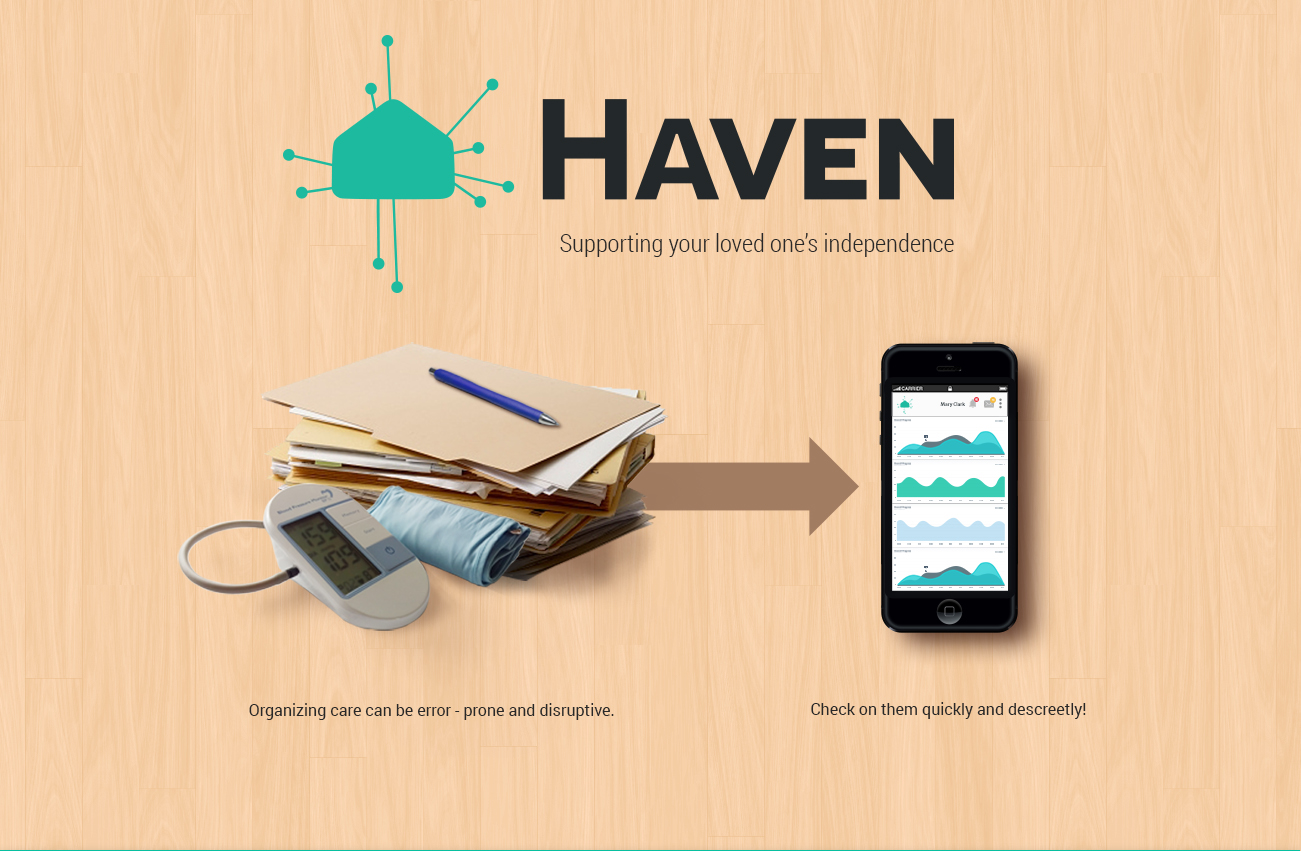
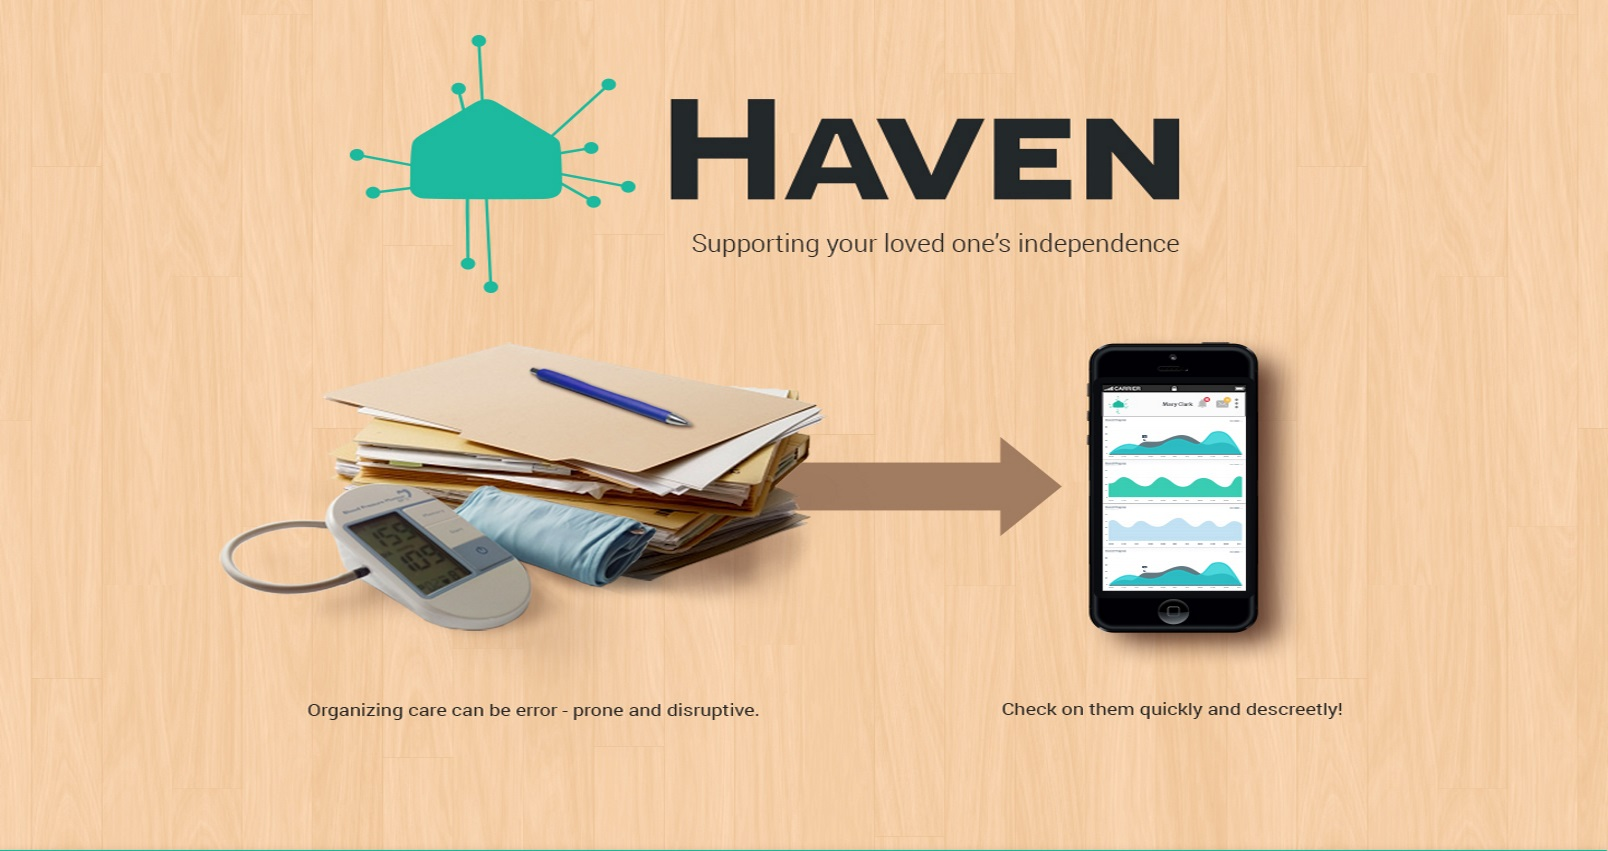
file name changes breif to index and index.php to user_signup_form.php

diff --git a/index.html b/index.html
@@ -12,6 +12,7 @@ ref http://www.bootply.com/103783  -->
   <html xmlns="http://www.w3.org/1999/xhtml">
   <head>
     <meta http-equiv="Content-Type" content="text/html; charset=utf-8" />
+<meta name="viewport" content="width=device-width, initial-scale=1.0">
     <title>Registration Form using jQuery Ajax and PHP MySQL</title>
     <link href="bootstrap/css/bootstrap.min.css" rel="stylesheet" media="screen">
     <link href="bootstrap/css/bootstrap-theme.min.css" rel="stylesheet" media="screen"> 
@@ -22,7 +23,9 @@ ref http://www.bootply.com/103783  -->
   <link rel="stylesheet" href="https://cdnjs.cloudflare.com/ajax/libs/jqueryui/1.11.4/jquery-ui.theme.min.css">
   <script>
   $(function() {
-    $( "#accordion" ).accordion();
+    $( "#accordion" ).accordion({// accordion pannel keep height according to content
+	heightStyle: "content"
+	});
   });
   </script>
 	<script type="text/javascript" src="validation.min.js"></script>
@@ -50,8 +53,9 @@ ref http://www.bootply.com/103783  -->
 		</div><!-- end nav header-->
         <div id="navbar" class="navbar-collapse collapse">
           <ul class="nav navbar-nav">
-            <li class="active"><a href="">Landing Page</a></li>
+            <li class="active"><a href="index.html">Home Page</a></li>
             <li><a href="">About</a></li>
+			<li><a href="user_signup_form.php">Signup</a></li>
             <li><a href="login.php">login</a></li>
           </ul>
           <ul class="nav navbar-nav navbar-right">
@@ -69,11 +73,12 @@ ref http://www.bootply.com/103783  -->
         </div>
       </nav>
 
-      
-<div class="bg"></div>
-<div class="jumbotron">
-  <h1 style = "font-weight: bold;">H<font size="8">AVEN</font> </h1>
-  <p class="lead">Smart Home Care For Loved Ones</p>
+<div class = "container text-center">   
+	<div class="bg"></div>
+	<div class="jumbotron">
+	<h1 style = "font-weight: bold;">H<font size="8">AVEN</font> </h1>
+	<p class="lead">Smart Home Care For Loved Ones</p>
+	</div>
 </div>
 
 <div class="container">
@@ -100,7 +105,7 @@ ref http://www.bootply.com/103783  -->
     Aliquam in felis sit amet augue.
   </div>
  
-</div>
+</div> 
 
 <hr>
 <div id="accordion">
@@ -145,7 +150,7 @@ ref http://www.bootply.com/103783  -->
     </p>
     
   </div>
-</div>
+</div><!-- end accordion -->
 
 
       
@@ -169,7 +174,7 @@ ref http://www.bootply.com/103783  -->
         specifications, wireframes and application flow charts.</p>
         <p><a class = "btn-primary.raised:active btn btn-success" href="#"  role="button">Haven Appendix &raquo;</a></p>
       </div><!-- footer -->
-    </div><!-- Pannel Body-->
+    
 
 
 

diff --git a/script.js b/script.js
@@ -1,4 +1,10 @@
 // JavaScript Document
+/*Author: Ben Hill
+Assigment : WE4.0 PHP Web App Assigment, Digital Skills Academy
+  Student Id = D11128483
+  Date : 20016/04/22
+Ref: http://www.codingcage.com/
+*/
 
 $('document').ready(function()
 { 
@@ -44,19 +50,20 @@ $('document').ready(function()
 	   /* form submit */
 	   function submitForm()
 	   {		
-				var data = $("#register-form").serialize();
+				var data = $("#register-form").serialize();// form id = register-form
 				
 				$.ajax({
 				
 				type : 'POST',
 				url  : 'register.php',
 				data : data,
-				beforeSend: function()
+				beforeSend: function()// check boolean value for email befor function call if false cancel the request
 				{	
 					$("#error").fadeOut();
+					// spinner on button to show user system activity
 					$("#btn-submit").html('<span class="glyphicon glyphicon-transfer"></span> &nbsp; sending ...');
 				},
-				success :  function(data)
+				success :  function(data)// data sent to server run if new user 
 						   {						
 								if(data==1){
 									
@@ -72,7 +79,7 @@ $('document').ready(function()
 								}
 								else if(data=="registered")
 								{
-									
+									// spinner animation for the signup process
 									$("#btn-submit").html('<img src="btn-ajax-loader.gif" /> &nbsp; Signing Up ...');
 									setTimeout('$(".form-signin").fadeOut(500, function(){ $(".signin-form").load("success.php"); }); ',5000);
 									

diff --git a/style.css b/style.css
@@ -60,10 +60,11 @@ body{
   background: url('images/IntroPage.jpg') no-repeat center center;
   position: fixed;
   width: 100%;
-  height: 200px; /*same height as jumbotron */
+  height: 70%; /*same height as jumbotron */
   top:0;
   left:0;
   z-index: -1;
+  
 }
 
 .jumbotron {

diff --git a/script_login.js b/script_login.js
@@ -1,6 +1,8 @@
-/*
-Author: Pradeep Khodke
-URL: http://www.codingcage.com/
+/*Author: Ben Hill
+Assigment : WE4.0 PHP Web App Assigment, Digital Skills Academy
+  Student Id = D11128483
+  Date : 20016/04/22
+Ref: http://www.codingcage.com/
 */
 
 $('document').ready(function()

diff --git a/success.php b/success.php
@@ -19,12 +19,12 @@
 $('document').ready(function()
 { 
 	window.setTimeout(function(){
-									
+		// go to login page when user is signed up then they sign in to get acess to members page home.php			
 		window.location.href = "login.php";
 										
 	}, 6000);
 	
-	
+	// click or timeout fumtion when user is signed up
 	$("#back").click(function(){
 		window.location.href = "login.php";
 	});
@@ -51,28 +51,16 @@ $('document').ready(function()
 				</div>
         <div id="navbar" class="navbar-collapse collapse">
           <ul class="nav navbar-nav">
-            <ul class="nav navbar-nav">
-            <li class="active"><a href="">Landing Page</a></li>
+            
+            <li class="active"><a href="index.html">Home</a></li>
             <li><a href="">About</a></li>
             <li><a href="login.php">login</a></li>
           </ul>
 
 
 
-            <li class="dropdown">
-              <a href="#" class="dropdown-toggle" data-toggle="dropdown" role="button" aria-haspopup="true" aria-expanded="false">
-              Tutorials <span class="caret"></span></a>
-              <ul class="dropdown-menu">
-                <li><a href="" target="_blank">1</a></li>
-                <li><a href="" target="_blank">2</a></li>
-                <li><a href="#">3</a></li>
-                <li role="separator" class="divider"></li>
-                <li class="dropdown-header">4</li>
-                <li><a href="" target="_blank">6</a></li>
-                <li><a href="" target="_blank">7</a></li>
-              </ul>
-            </li>
-          </ul>
+            
+         
         </div><!--/.nav-collapse -->
       </div>
 </nav>

diff --git a/home.php b/home.php
@@ -24,6 +24,7 @@ ref http://www.bootply.com/103783  */
  <html xmlns="http://www.w3.org/1999/xhtml">
  <head>
   <meta http-equiv="Content-Type" content="text/html; charset=utf-8" />
+<meta name="viewport" content="width=device-width, initial-scale=1.0">
   <title>Login Form using jQuery Ajax and PHP MySQL</title>
   <link href="bootstrap/css/bootstrap.min.css" rel="stylesheet" media="screen"> 
   <link href="bootstrap/css/bootstrap-theme.min.css" rel="stylesheet" media="screen"> 
@@ -50,7 +51,7 @@ ref http://www.bootply.com/103783  */
       </div>
       <div id="navbar" class="navbar-collapse collapse">
         <ul class="nav navbar-nav">
-          <li class="active"><a href="">Landing Page</a></li>
+          <li class="active"><a href="index.html">Home</a></li>
           <li><a href="">About</a></li>
           <li><a href="login.php">login</a></li>
         </ul>
@@ -68,10 +69,12 @@ ref http://www.bootply.com/103783  */
       </div><!--/.nav-collapse -->
     </div>
   </nav>
-  <div class="bg"></div>
-<div class="jumbotron">
-  <h1>Haven</h1>
-  <p class="lead">Smart Homecare For Your loved Ones</p>
+  <div class = "container text-center">   
+	<div class="bg"></div>
+	<div class="jumbotron">
+	<h1 style = "font-weight: bold;">H<font size="8">AVEN</font> </h1>
+	<p class="lead">Smart Home Care For Loved Ones</p>
+	</div>
 </div>
 
 <div class="container">

diff --git a/register.php b/register.php
@@ -6,24 +6,24 @@ Assigment : WE4.0 PHP Web App Assigment, Digital Skills Academy
 Ref: http://www.codingcage.com/
 */
 	
-	require_once 'dbconfig.php';
+	require_once 'dbconfig.php';// db connection file using pdo
 
 	if($_POST)
 	{
-		$user_name = $_POST['user_name'];
+		$user_name = $_POST['user_name'];// global vars from html form
 		$user_email = $_POST['user_email'];
 		$user_password = $_POST['password'];
 		$joining_date =date('Y-m-d H:i:s');
 		
-		$password = md5($user_password);
+		$password = md5($user_password);// password hash/ encryption uisng md5
 		
 		try
 		{	
 		
-			$stmt = $db_con->prepare("SELECT * FROM tbl_users WHERE user_email=:email");
+			$stmt = $db_con->prepare("SELECT * FROM tbl_users WHERE user_email=:email");// pdo object to connect
 			$stmt->execute(array(":email"=>$user_email));
 			$count = $stmt->rowCount();
-			
+			// check is user already in the database if no procced with sql insert
 			if($count==0){
 				
 			$stmt = $db_con->prepare("INSERT INTO tbl_users(user_name,user_email,user_password,joining_date) VALUES(:uname, :email, :pass, :jdate)");
@@ -34,7 +34,7 @@ Ref: http://www.codingcage.com/
 					
 				if($stmt->execute())
 				{
-					echo "registered";
+					echo "registered";// pass value back to call back in script
 				}
 				else
 				{

diff --git a/user_signup_form.php b/user_signup_form.php
@@ -35,8 +35,9 @@
     </a>          </div>
         <div id="navbar" class="navbar-collapse collapse">
           <ul class="nav navbar-nav">
-            <li class="active"><a href="">Landing Page</a></li>
+            <li class="active"><a href="index.html">Home Page </a></li>
             <li><a href="">About</a></li>
+			<li><a href = "user_signup_form.php">Singup</a></li>
             <li><a href="login.php">login</a></li>
           </ul>
 

diff --git a/login_process.php b/login_process.php
@@ -32,7 +32,7 @@ Ref: http://www.codingcage.com/
 			}
 			else{
 				
-				echo "email or password does not exist."; // wrong details 
+				echo "email or password does not exist please try again or signup."; // wrong details 
 			}
 				
 		}

diff --git a/logout.php b/logout.php
@@ -11,6 +11,6 @@ Ref: http://www.codingcage.com/
 	
 	if(session_destroy())
 	{
-		header("Location: login.php");
+		header("Location: index.html");// end session bring user back to main home page 
 	}
 ?>
